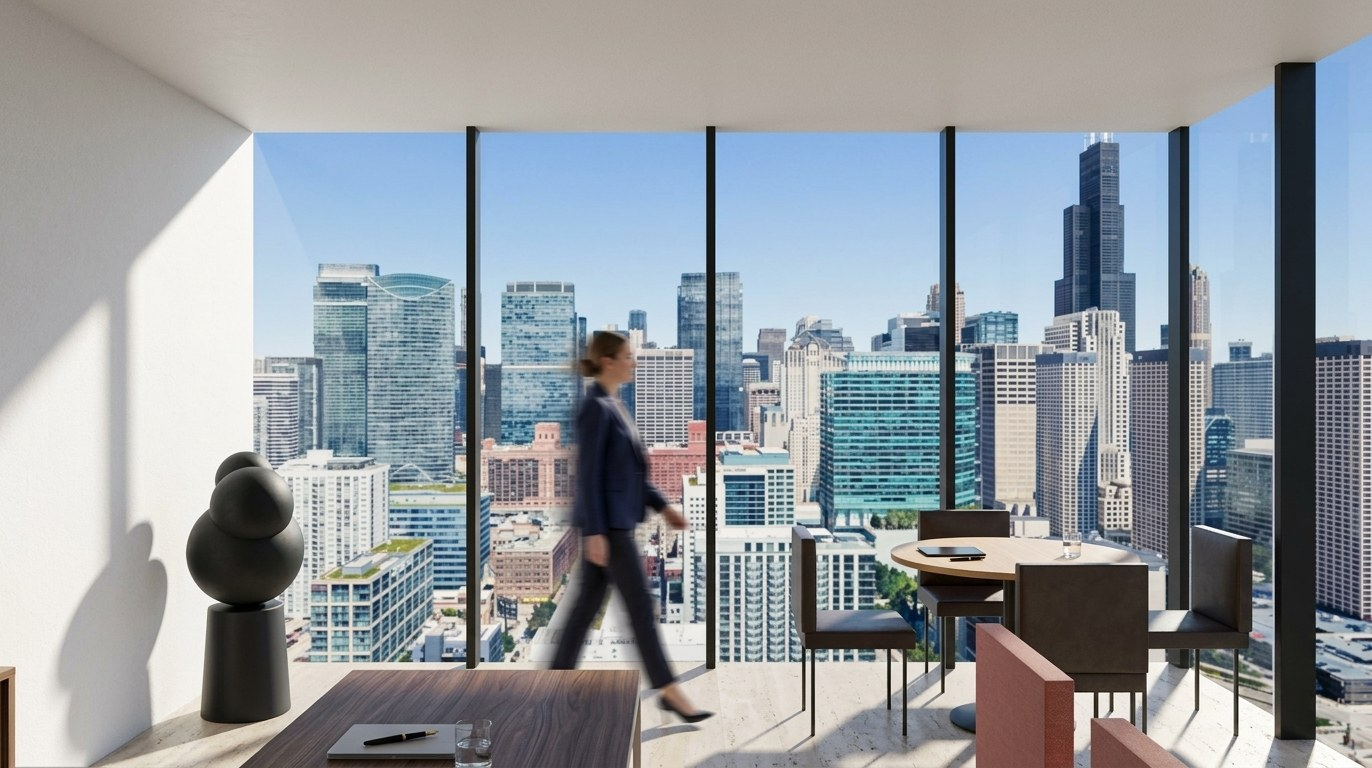
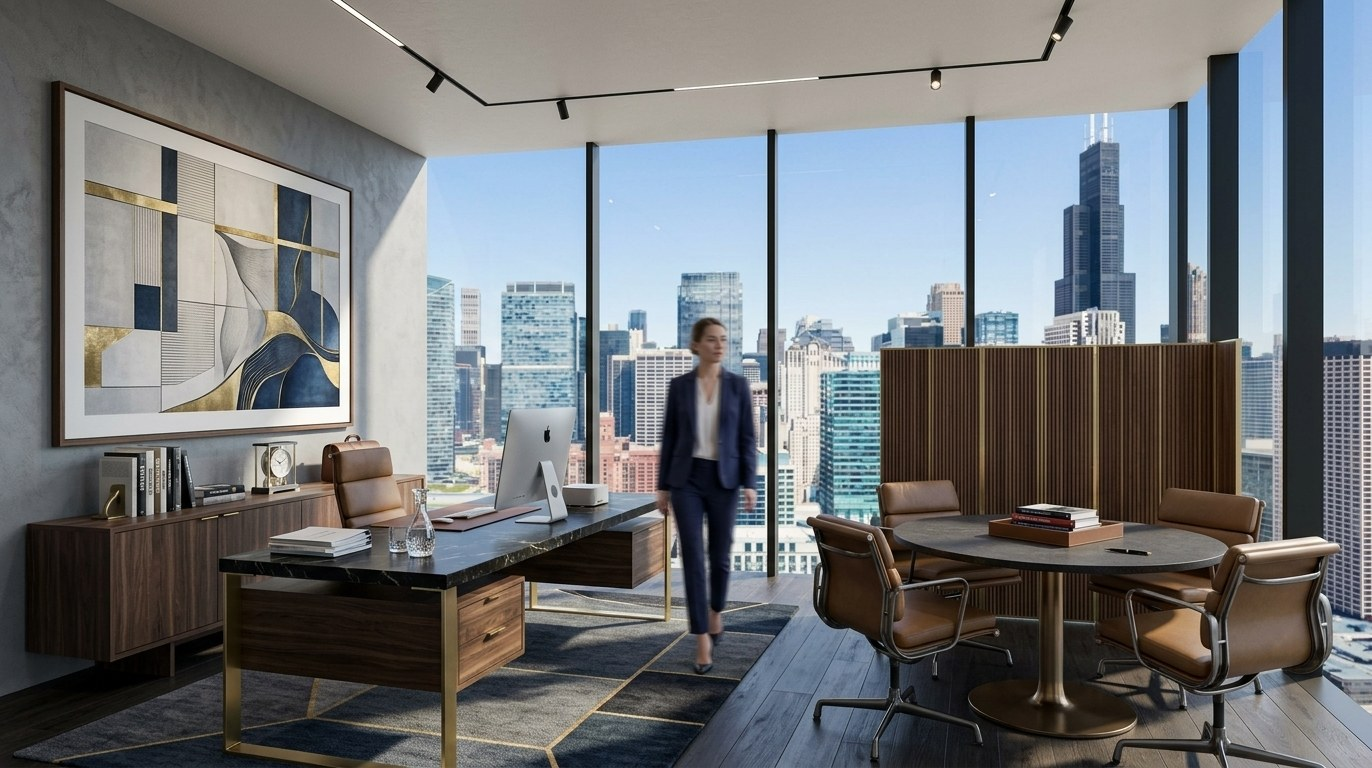
views: view slides placed directly after their level (story.views[].after); office image v1.2; figures numbered in deck order

diff --git a/js/app.js b/js/app.js
@@ -443,14 +443,27 @@ function build(data) {
   // Title and site go before the tower wrapper (phone: tower sticks from here down)
   deckEl.insertBefore(frag, towerWrap);
 
+  // Figures run on from the sketch slides through plans, the view slides placed after their level
+  // (story.views[].after = level key; Brad 2026-10-09 01:40) and the outro images
+  let fig = introFigs;
+  const views = story.views || [];
   data.levels.forEach((level, k) => {
-    const el = renderLevel(level, k + 1 + introFigs, data);
+    fig += 1;
+    const el = renderLevel(level, fig, data);
     slides.push({ index: slides.length, kind: 'level', level, levelIndex: k, el });
     deckEl.append(el);
+    for (const t of views.filter((v) => v.after === level.key)) {
+      fig += 1;
+      const r = renderStory({ ...t, kind: 'image', fig }, data);
+      if (!r) continue;
+      r.el.classList.add('slide--view');
+      slides.push({ index: slides.length, kind: r.kind, level: null, levelIndex: -1, el: r.el });
+      deckEl.append(r.el);
+    }
   });
 
   for (const t of story.outro || []) {
-    const r = renderStory(t, data);
+    const r = renderStory(t.kind === 'image' ? { ...t, fig: ++fig } : t, data);
     if (!r) continue;
     r.el.classList.add('slide--outro');
     slides.push({ index: slides.length, kind: r.kind, level: null, levelIndex: -1, el: r.el });

diff --git a/tools/composite_views.py b/tools/composite_views.py
@@ -1,4 +1,4 @@
-# composite_views_v1.1 — This section is intended to use a finished Blender/ComfyUI render when present, else place the Google Earth frames behind the transparent
+# composite_views_v1.2 — This section is intended to use a finished Blender/ComfyUI render when present, else place the Google Earth frames behind the transparent
 # Rhino interior captures (03_Design\05_Presentation\Views\735WRandolph_<key>_Capture_v1.0.png) and write
 # the deck images assets/views/View_<key>_v1.0.jpg (plus a mirror in the Views folder), then add one image
 # slide per view to data/story.json (outro, before the massing images) with the Google attribution.
@@ -62,30 +62,32 @@ def composite(key, stem, dry):
     return name, f"{key}: {fg.size[0]}x{fg.size[1]} capture over {os.path.basename(earth)} -> assets/views/{name}"
 
 
+AFTER = {"O1-L10-E": "L06-L15", "O1-L10-W": "L06-L15", "O2-L25-E": "L18-L32", "O2-L25-W": "L18-L32",
+         "Hotel-L41-E": "L35-L41", "Hotel-L41-W": "L35-L41", "L45-SSW": "L42-L47", "L45-W": "L42-L47",
+         "Terrace-L17-E": "L17", "Pool-L34-SSW": "L34"}
+
+
 def add_slides(done, dry):
+    """story.json 'views': one image slide per view, placed by js/app.js directly after the level in AFTER
+    (Brad 2026-10-09 01:40). Figure numbers are assigned at render time by js/app.js. Any copy of a view that
+    is still in the outro is removed."""
     d = json.load(open(STORY, encoding="utf-8"))
-    outro = d.setdefault("outro", [])
-    existing = {s.get("src") for s in outro}
-    first_massing = next((i for i, s in enumerate(outro) if "massing" in str(s.get("src", ""))), len(outro))
+    views = d.setdefault("views", [])
+    have = {v.get("src") for v in views}
     inserted = 0
     for key, stem, label, name, caption in VIEW_SET:
         fn = done.get(key)
         if not fn:
             continue
         src = f"assets/views/{fn}"
-        if src in existing:
+        d["outro"] = [s for s in d.get("outro", []) if s.get("src") != src]
+        if src in have:
             continue
-        outro.insert(first_massing + inserted, {
-            "kind": "image", "src": src, "label": label, "name": name, "sub": "",
-            "lines": [], "caption": f"{caption} · {ATTRIB}",
-        })
+        views.append({"kind": "image", "src": src, "after": AFTER[key], "label": label, "name": name, "sub": "",
+                      "lines": [], "caption": f"{caption} · {ATTRIB}"})
         inserted += 1
-    # Figure numbers continue after the level plans across every outro image slide (views, then massing)
-    fig = FIG_START
-    for sl in outro:
-        if sl.get("kind") == "image":
-            sl["fig"] = fig
-            fig += 1
+    order = [k for k, *_ in VIEW_SET]
+    views.sort(key=lambda v: next((i for i, k in enumerate(order) if v["src"].endswith(f"View_{k}_v1.0.jpg")), 99))
     if not dry:
         with open(STORY, "w", encoding="utf-8", newline="\n") as f:
             json.dump(d, f, indent=1, ensure_ascii=False); f.write("\n")
